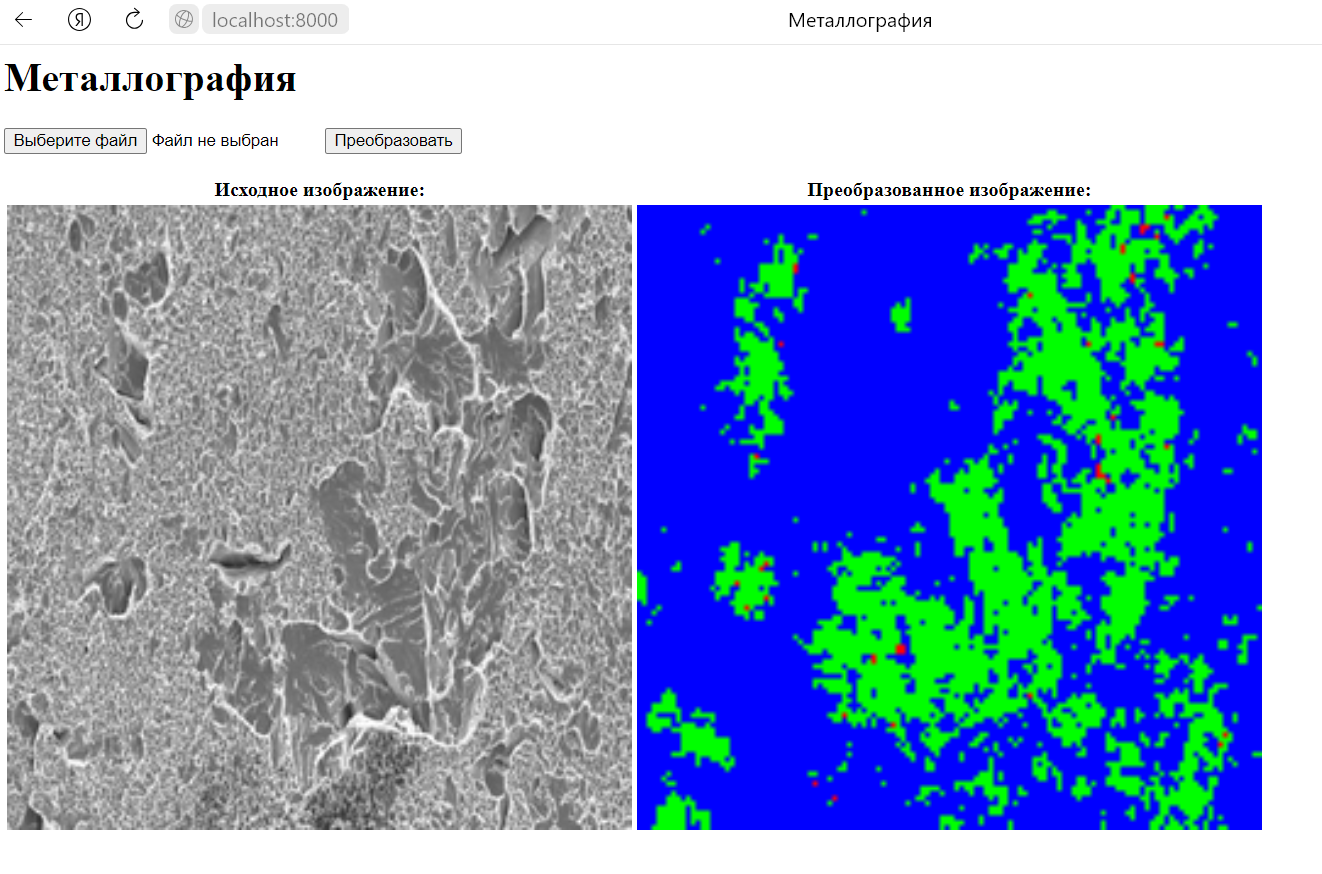
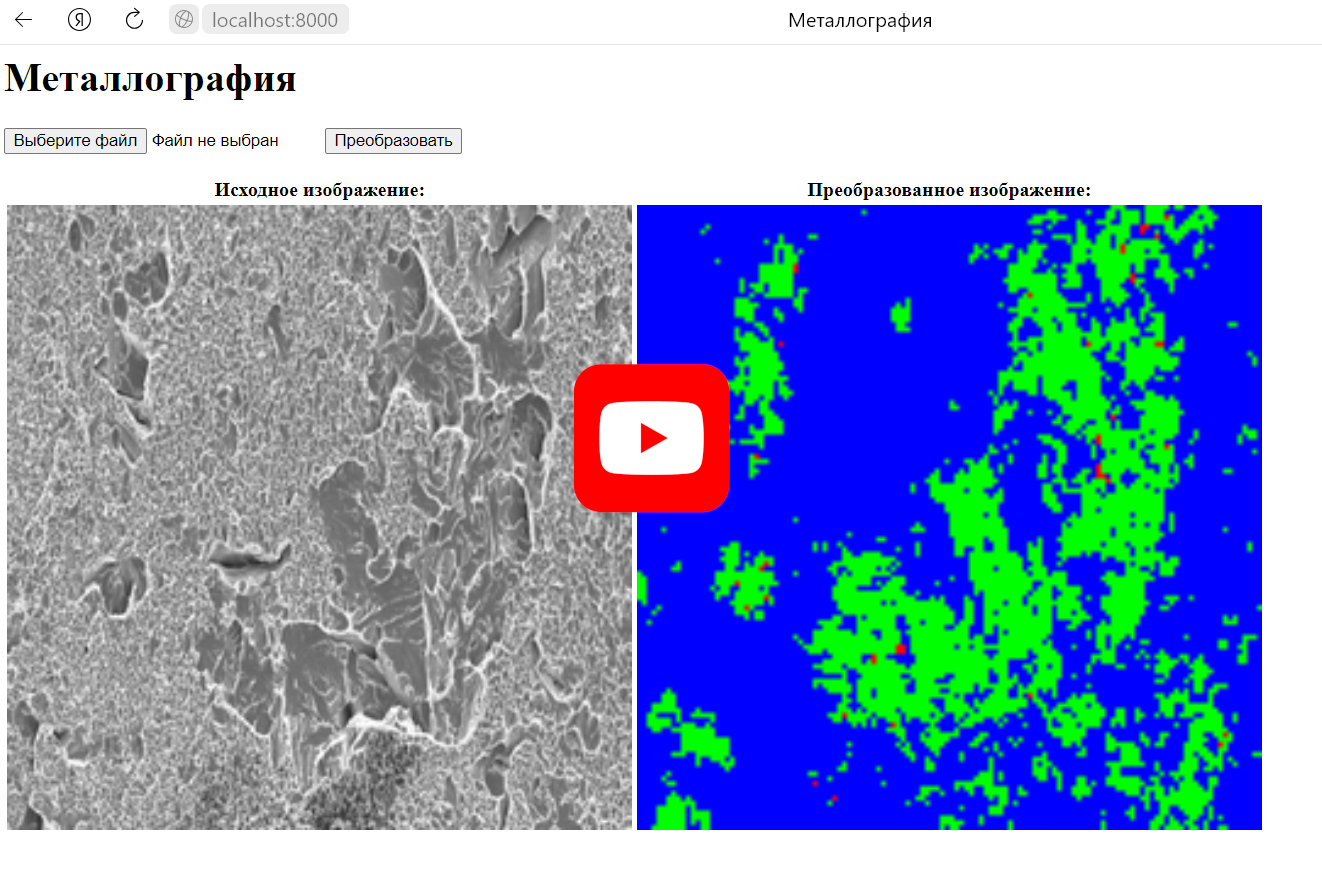
с виде и кнопкой

Changed region(s): [[0.4342, 0.4016, 0.5582, 0.587]]

diff --git a/README.md b/README.md
@@ -2,7 +2,8 @@
 
 Приложение для конвертации изображений электронного микроскопа в размеченные.
 
-**!!! Видео с демонстрацией возможностей !!!** - https://youtu.be/_xVUbHiFV3Y
+[![Видео с демонстрацией возможностей](image-1.png)](https://youtu.be/_xVUbHiFV3Y)
+
 
 Приложение содержит в себе обученную на размеченных специалистами изображениях нейросетевую модель.
 
@@ -34,7 +35,7 @@ docker-compose ps -a
 Должен работать контейнер `app` из образа `fraktmetal-app`.
 # Открываем программу
 
-![Alt text](image-1.png)
+
 
 Для доступа к интерфейсу программы откройте в браузере адрес http://localhost:8000/.
 
